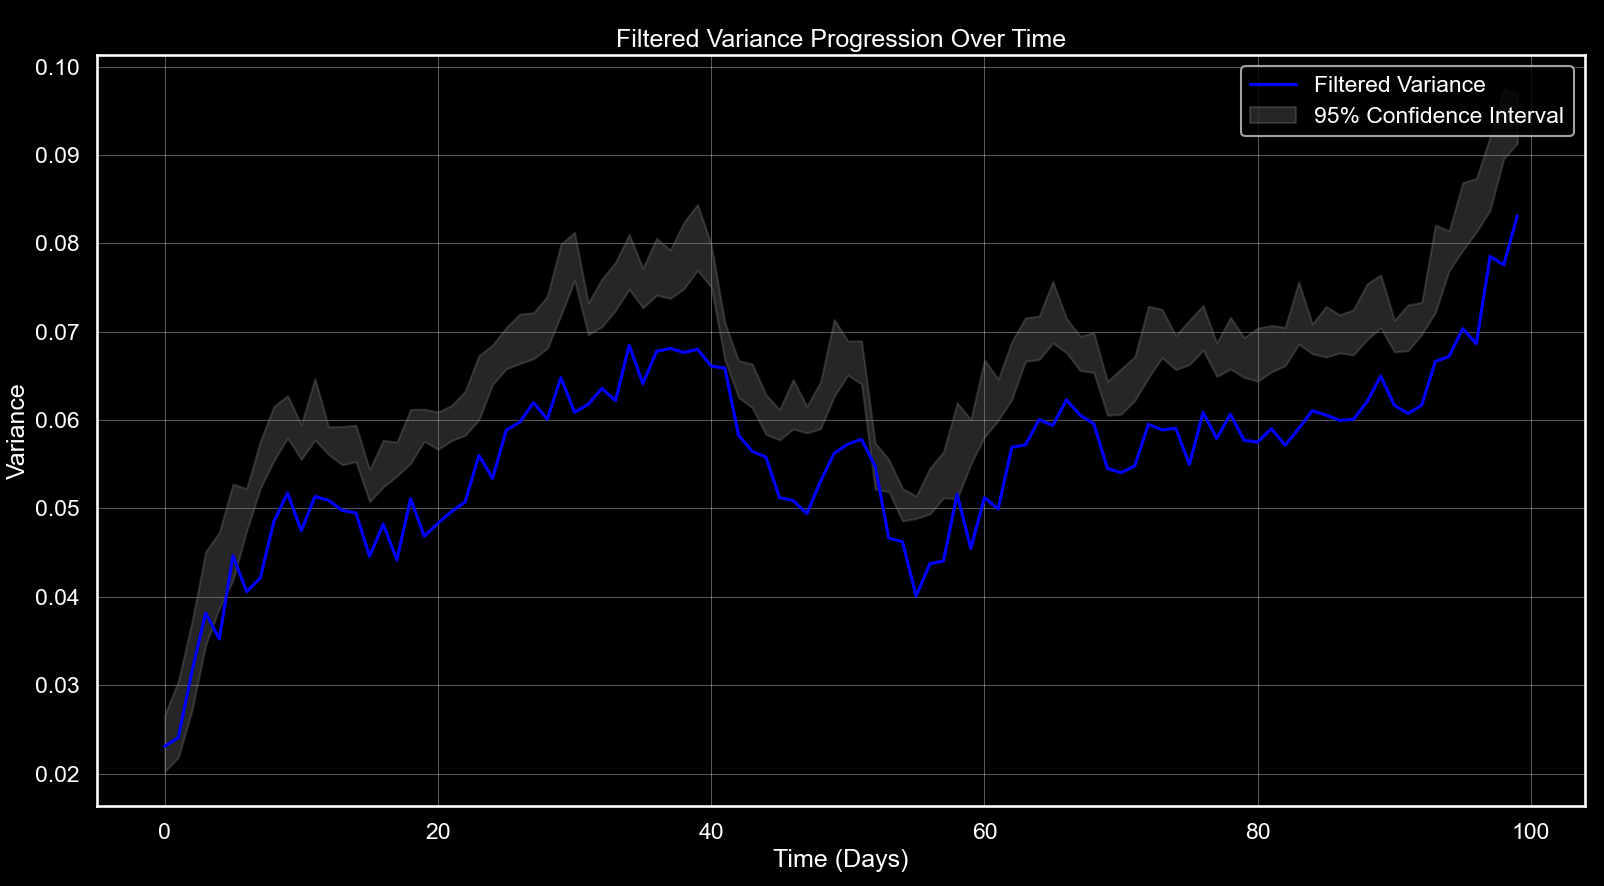
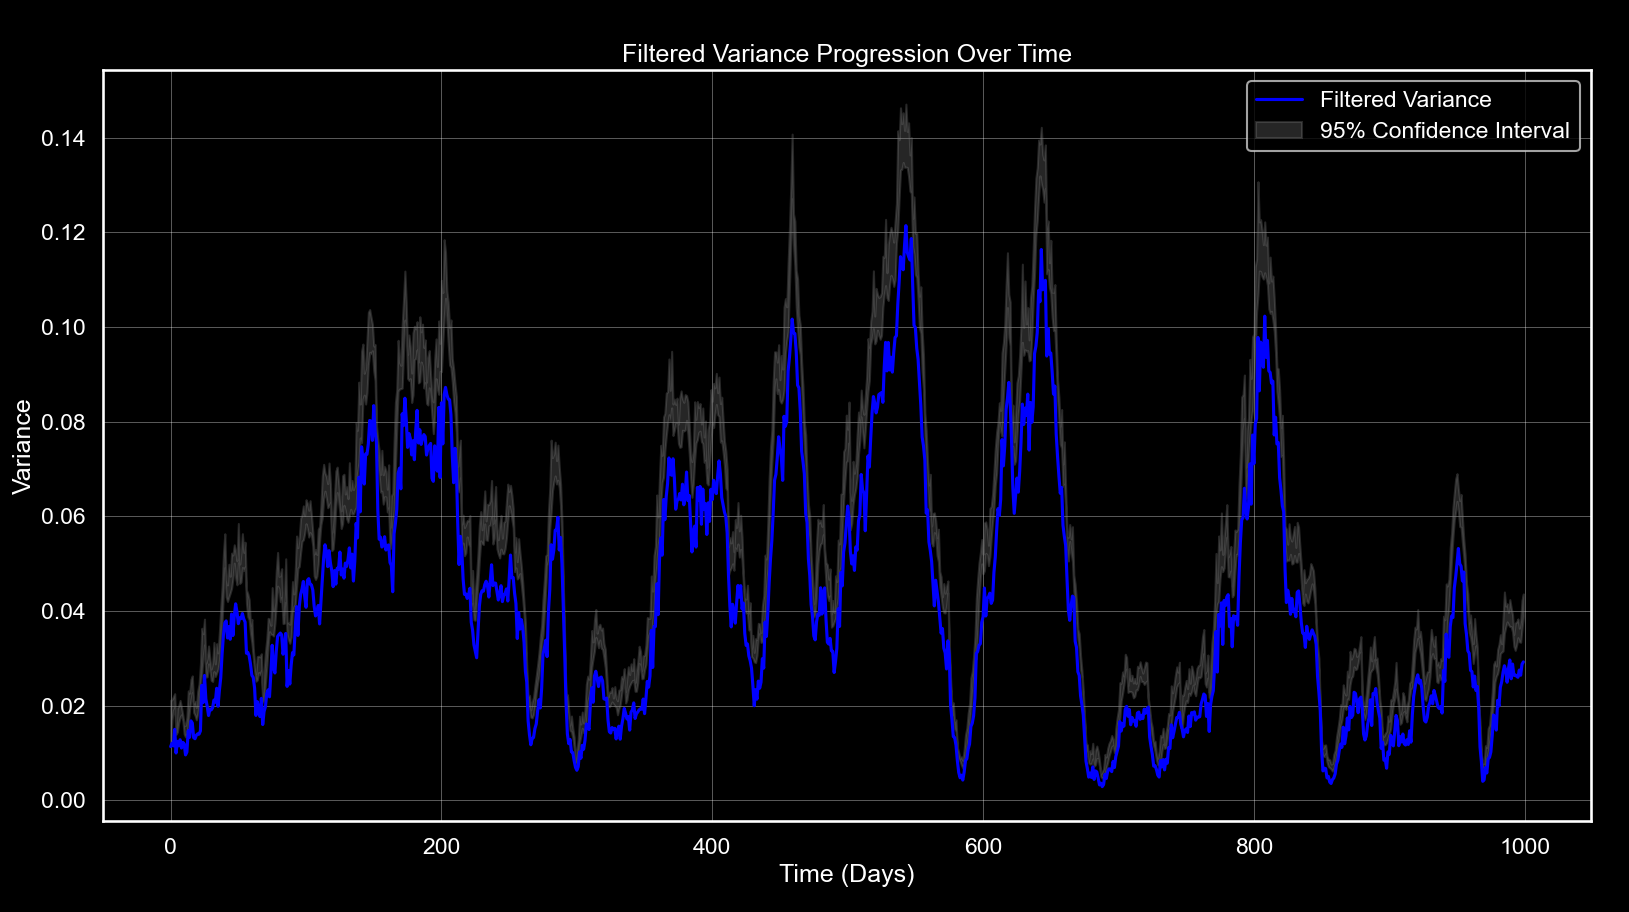
reformatted clean data + updated small changes in simulation and utils

diff --git a/src/simulation.py b/src/simulation.py
@@ -101,6 +101,10 @@ Like_H_true_rv, V_RV_true = heston93_particle_filter(tparams, simul, np.column_s
 end_time = time.time()
 print(f"Execution time: {end_time - start_time} seconds")
 
+
+# Call the function with the filtered variance data
+plot_filtered_variance(V_RV_true, num_days)
+
 ###########################
 ### 4. Parameter Search ###
 ###########################
@@ -112,11 +116,11 @@ start_time = time.time()
 opt_ret = fmin(
     func=lambda x: heston93_particle_filter(np.concatenate([x, [eta_transformed]]),
                                             simul, ret, 1,
-                                            verbose=True)[0],  # Only use the log likelihood
+                                            verbose=False)[0],  # Only use the log likelihood
     x0=tparams[:5],
     xtol=1e-3,
     ftol=1e-3,
-    maxiter=100, # I put a limit since it doesn't seem to be converging 
+    maxiter=200, # I put a limit since it doesn't seem to be converging 
     disp=True   # Set to False to turn off the iteration messages
 )
 end_time = time.time() # might take ~1min per 10 steps
@@ -128,14 +132,23 @@ start_time = time.time()
 opt_rv = fmin(
     func=lambda x: heston93_particle_filter(x, simul, 
                                             np.column_stack((ret, RV)),
-                                            1, verbose=True)[0], # Only use the log likelihood
+                                            1, verbose=False)[0], # Only use the log likelihood
     x0=tparams,
     xtol=1e-3,
     ftol=1e-3,
-    maxiter=100, # I put a limit since it doesn't seem to be converging 
+    maxiter=200, # I put a limit since it doesn't seem to be converging 
     disp=True
 )
 print(f"Execution time: {end_time - start_time} seconds")
+
+
+# save the optimal parameters at this step 
+with open('data_clean/opt_params/opt_ret.npy', 'wb') as f: 
+    np.save(f, opt_ret)
+    
+# save the optimal parameters at this step 
+with open('data_clean/opt_params/opt_rv.npy', 'wb') as f: 
+    np.save(f, opt_rv)
 
 # Compute the filtered volatility
 Like_H_ret, V_ret_est = heston93_particle_filter(opt_ret, simul, ret, 1, verbose=True)

diff --git a/src/utils.py b/src/utils.py
@@ -71,8 +71,8 @@ def calculate_log_likelihoods_for_params(base_params, param_ranges, simul, ret, 
             # Calculate log-likelihood depending on whether rv is provided
             if rv is not None:
                 likelihood, _ = heston93_particle_filter(x, simul, 
-                                                          np.column_stack((ret, rv)),
-                                                          1, transform_params=False, 
+                                                          np.column_stack((ret, rv)), 1, 
+                                                          transform_params=False, 
                                                           verbose=False)
             else:
                 likelihood, _ = heston93_particle_filter(x, simul, ret, 1, 
